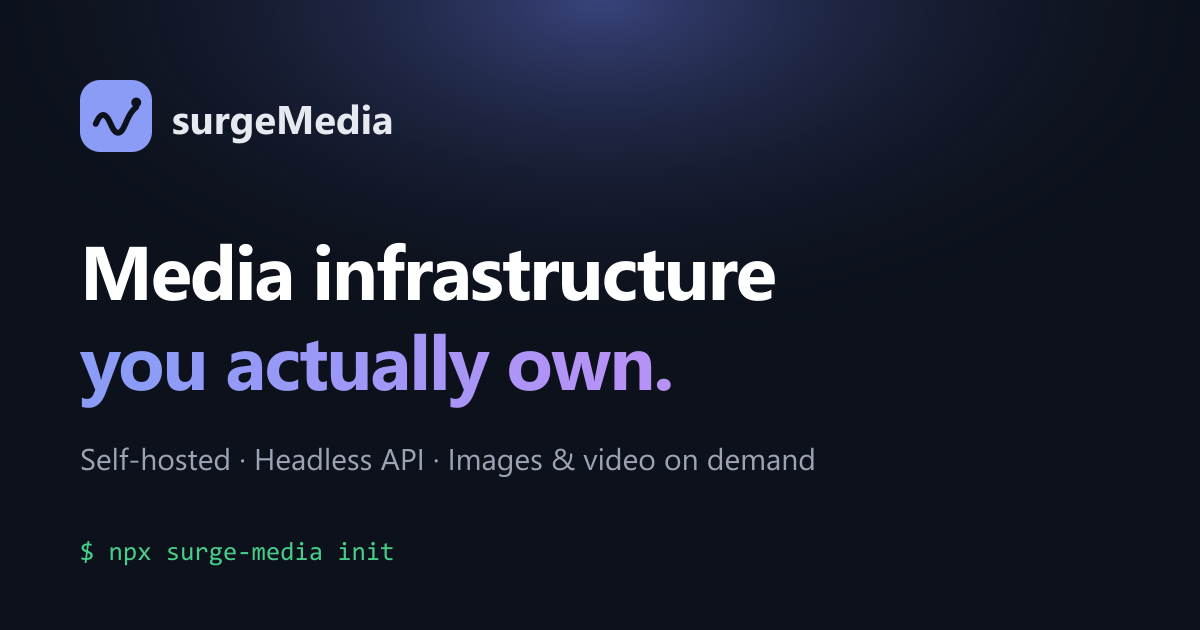
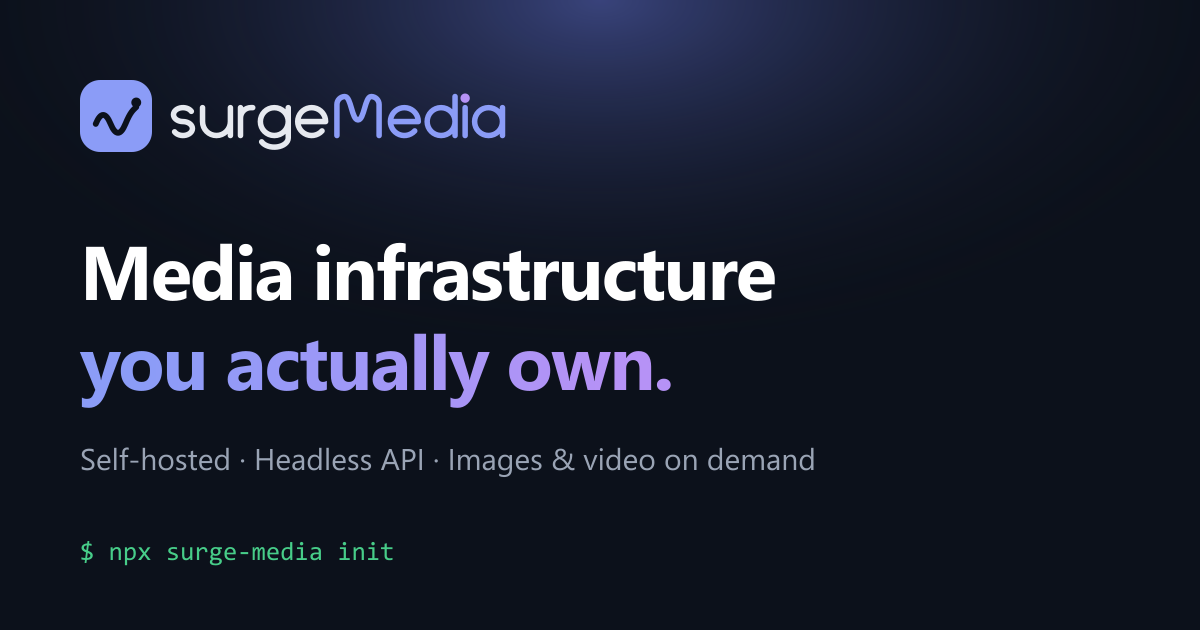
feat(brand): Replace the text name with a drawn monoline wordmark
The name next to the wave pictogram was plain Inter text. It is now a
monoline wordmark drawn from geometry, with one stroke width and round
ends, the stroke of the pictogram's wave: its M is the wave and the dot
of the i is the wave's dot, in violet. No font is needed to draw or
display it.

- apps/website/scripts/brand.mjs (`pnpm brand`) writes public/brand/
  (logo, wordmark and pictogram; light, dark and monochrome) and the
  Starlight header logos, which now replace the site title (still read
  by screen readers).
- The admin AppLogo draws the same paths with theme tokens. The new
  --brand-accent token colours the dot and is contrast-checked. The
  `collapsible` prop keeps only the pictogram below 480px, used by the
  public layout whose header overflowed a 320px screen.
- The social preview image and the README show the new logo.

Changed region(s): [[0.1233, 0.1508, 0.4317, 0.2413]]

diff --git a/apps/core/app/components/app/Logo.vue b/apps/core/app/components/app/Logo.vue
@@ -1,10 +1,24 @@
 <script setup lang="ts">
-/** Logo surgeMedia (pictogramme décoratif + nom). Placez-le dans un lien pour la navigation. */
+/**
+ * Logo surgeMedia : pictogramme (vague et point) et logotype monoligne, le tout en SVG, sans police.
+ * Le M du logotype est la vague du pictogramme, le point du i est son point.
+ *
+ * Tracés générés par `apps/website/scripts/brand.mjs` (`pnpm --filter @surge-media/website brand`) :
+ * après une modification du dessin, recopiez-les depuis `apps/website/public/brand/surgemedia-logo-light.svg`
+ * (le logotype est le second groupe ; son cadre vertical est celui du logo complet, pour garder l'alignement).
+ * Les couleurs viennent des jetons du thème (clair et sombre). Le nom reste lu par les lecteurs d'écran
+ * (texte masqué). Placez le logo dans un lien pour la navigation.
+ */
+defineProps<{
+  /** Sous 480 px de large, n'affiche que le pictogramme (en-têtes chargés, WCAG 1.4.10). */
+  collapsible?: boolean
+}>()
+
 const { t } = useI18n()
 </script>
 
 <template>
-  <span class="inline-flex items-center gap-2.5 font-semibold tracking-tight text-foreground">
+  <span class="inline-flex items-center gap-2">
     <svg viewBox="0 0 32 32" class="size-8 shrink-0" aria-hidden="true" focusable="false">
       <rect width="32" height="32" rx="9" class="fill-primary" />
       <path
@@ -17,6 +31,26 @@ const { t } = useI18n()
       />
       <circle cx="25" cy="10" r="2.2" class="fill-primary-foreground" />
     </svg>
-    <span class="text-lg">{{ t('app.name') }}</span>
+    <svg
+      viewBox="0 -95.3 547.1 117.86"
+      :class="['h-8 w-auto shrink-0', collapsible && 'hidden min-[30rem]:block']"
+      aria-hidden="true"
+      focusable="false"
+    >
+      <g stroke-width="9" stroke-linecap="round" stroke-linejoin="round">
+        <path
+          d="M33.69 -44.05A15.5 11.4 0 1 0 20 -27.3A15.5 11.4 0 1 1 6.31 -10.55M52 -50.1V-27.3A22.8 22.8 0 0 0 97.6 -27.3M97.6 -50.1V-4.5M114.1 -4.5V-50.1M114.1 -33.1A17 17 0 0 1 131.1 -50.1h3M146.6 -27.3a22.8 22.8 0 1 0 45.6 0a22.8 22.8 0 1 0 -45.6 0M192.2 -50.1V-0.5A22.8 15 0 0 1 148.74 5.84M207.7 -27.3H253.3A22.8 22.8 0 1 0 247.44 -12.04"
+          fill="none"
+          class="stroke-foreground"
+        />
+        <path
+          d="M271.8 -4.5V-55.25C271.8 -62.43 277.62 -68.25 284.8 -68.25C295.12 -68.25 295.98 -30 306.3 -30C316.62 -30 317.48 -68.25 327.8 -68.25C334.98 -68.25 340.8 -62.43 340.8 -55.25V-4.5M359.3 -27.3H404.9A22.8 22.8 0 1 0 399.04 -12.04M419.4 -27.3a22.8 22.8 0 1 0 45.6 0a22.8 22.8 0 1 0 -45.6 0M465 -68.25V-4.5M481.5 -50.1V-4.5M497 -27.3a22.8 22.8 0 1 0 45.6 0a22.8 22.8 0 1 0 -45.6 0M542.6 -50.1V-4.5"
+          fill="none"
+          class="stroke-primary"
+        />
+        <circle cx="481.5" cy="-65.6" r="7.65" class="fill-brand-accent" />
+      </g>
+    </svg>
+    <span class="sr-only">{{ t('app.name') }}</span>
   </span>
 </template>

diff --git a/apps/core/app/assets/css/main.css b/apps/core/app/assets/css/main.css
@@ -23,6 +23,7 @@
   --primary-hover: #3140a6;
   --primary-foreground: #ffffff;
   --primary-soft: #eceffd;
+  --brand-accent: #7a5af5; /* point du i du logo (AppLogo) : ≥ 3:1 */
   --destructive: #b42318;
   --destructive-hover: #912018;
   --destructive-foreground: #ffffff;
@@ -69,6 +70,7 @@
   --primary-hover: #a3b1fa;
   --primary-foreground: #0c111b;
   --primary-soft: #1e2748;
+  --brand-accent: #b692f6;
   --destructive: #f97066;
   --destructive-hover: #fb8a82;
   --destructive-foreground: #0c111b;
@@ -113,6 +115,7 @@
   --color-primary-hover: var(--primary-hover);
   --color-primary-foreground: var(--primary-foreground);
   --color-primary-soft: var(--primary-soft);
+  --color-brand-accent: var(--brand-accent);
   --color-destructive: var(--destructive);
   --color-destructive-hover: var(--destructive-hover);
   --color-destructive-foreground: var(--destructive-foreground);

diff --git a/apps/core/app/layouts/default.vue b/apps/core/app/layouts/default.vue
@@ -12,7 +12,7 @@ const { loggedIn } = useAuth()
     <header class="border-b border-border bg-surface">
       <div class="mx-auto flex h-16 max-w-6xl items-center justify-between gap-4 px-4 sm:px-6">
         <NuxtLink to="/" class="rounded-lg">
-          <AppLogo />
+          <AppLogo collapsible />
           <span class="sr-only">{{ t('nav.homeSuffix') }}</span>
         </NuxtLink>
         <div class="flex items-center gap-2">

diff --git a/apps/core/scripts/check-contrast.ts b/apps/core/scripts/check-contrast.ts
@@ -66,6 +66,9 @@ const PAIRS: [string, string, number][] = [
   ['input', 'muted', 3],
   ['ring', 'surface', 3],
   ['ring', 'background', 3],
+  // Logo (AppLogo) : point du i, élément graphique (1.4.11).
+  ['brand-accent', 'surface', 3],
+  ['brand-accent', 'background', 3],
 ]
 
 let failures = 0

diff --git a/apps/website/README.md b/apps/website/README.md
@@ -22,6 +22,7 @@ Dans `apps/website` :
 | `pnpm check:links` | liens internes et ancres du build (après `pnpm build`) |
 | `pnpm preview` | sert le build localement |
 | `pnpm og-image` | régénère `public/og.png` depuis `scripts/og-image.svg` |
+| `pnpm brand` | redessine le logo depuis `scripts/brand.mjs` : `public/brand/` (logo, logotype, pictogramme ; clair, sombre, monochrome) et `src/assets/logo-*.svg` (en-tête). Recopier ensuite les tracés dans `scripts/og-image.svg` (puis `pnpm og-image`) et dans `apps/core/app/components/app/Logo.vue` |
 
 ## Ajouter ou modifier une page
 

diff --git a/README.md b/README.md
@@ -1,4 +1,9 @@
-# surgeMedia
+<h1>
+  <picture>
+    <source media="(prefers-color-scheme: dark)" srcset="apps/website/public/brand/surgemedia-logo-dark.svg">
+    <img src="apps/website/public/brand/surgemedia-logo-light.svg" alt="surgeMedia" height="48">
+  </picture>
+</h1>
 
 [![CI](https://github.com/mahmoud-nb/surge-media/actions/workflows/ci.yml/badge.svg)](https://github.com/mahmoud-nb/surge-media/actions/workflows/ci.yml)
 [![License: BUSL-1.1](https://img.shields.io/badge/license-BUSL--1.1-blue)](LICENSE)
